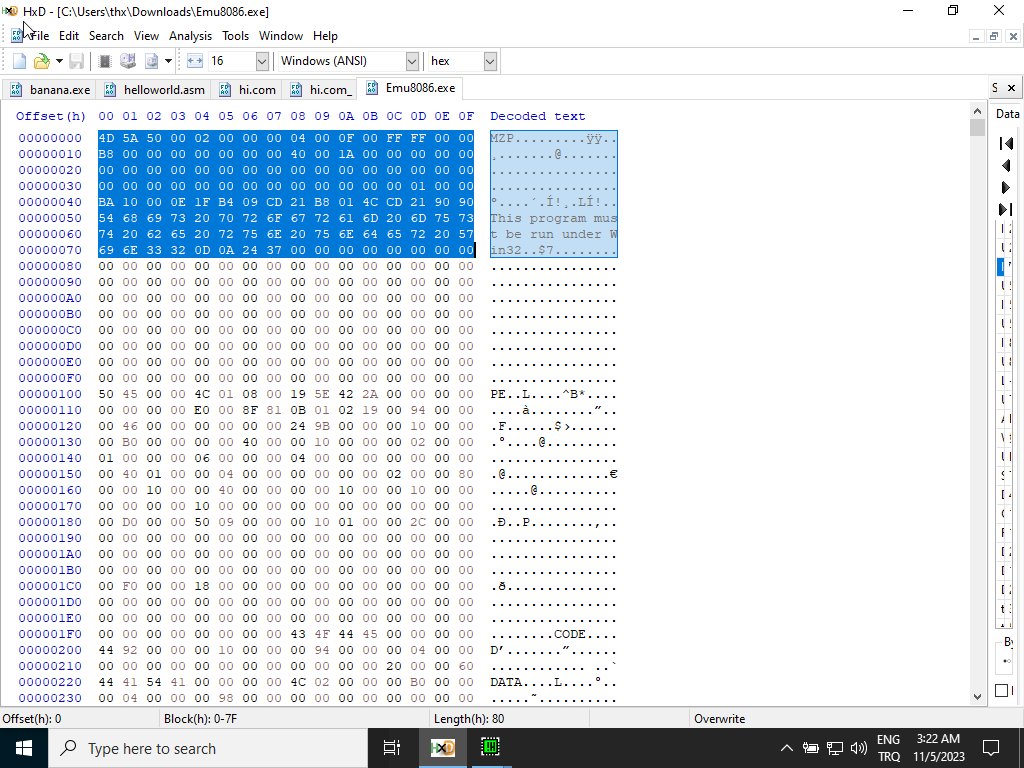
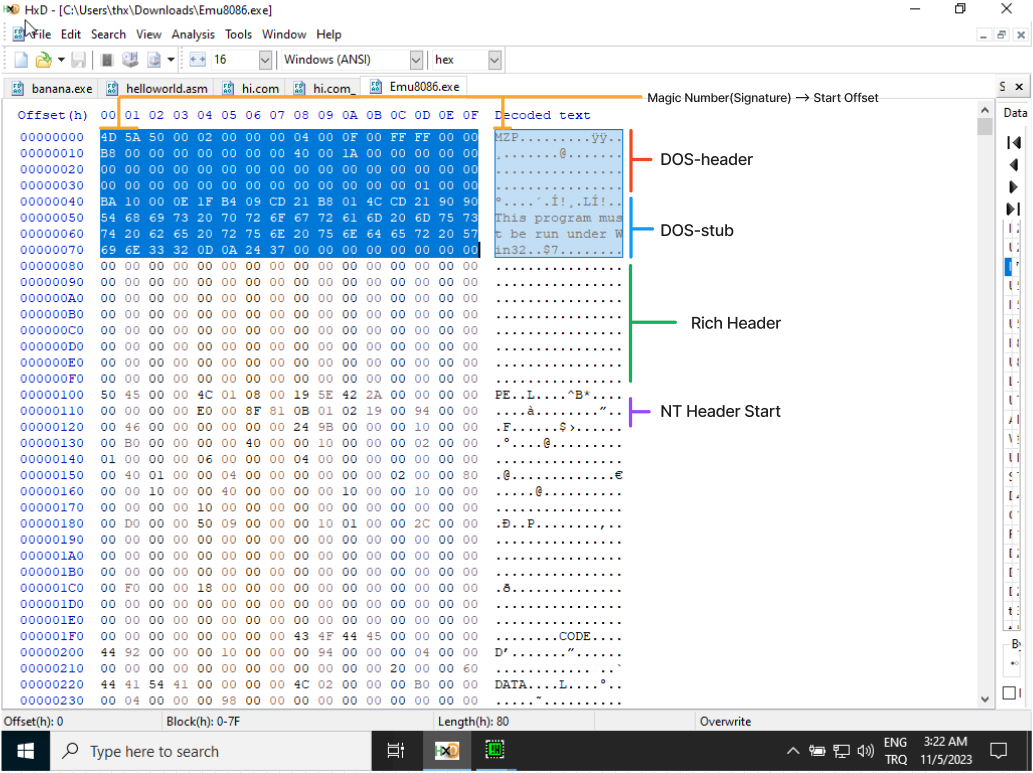
dont lose

Changed region(s): [[0.0, 0.0, 1.0, 1.0], [0.9375, 0.0, 1.0, 0.0625], [0.9062, 0.0, 0.9375, 0.0312]]

diff --git a/pages/.exeHeader/index.html b/pages/.exeHeader/index.html
@@ -77,20 +77,59 @@
 
         <div class="summary"><h3>Summary</h3>
             <p>
-                .exe dosyalarının içerisine gömülü bu kodların aslında ne olduğuna, ne işe yaradıklarına ve neden orada olduklarına bakacağız.
+                .exe dosyalarının içerisindeki yapılara; gömülü kodların aslında ne olduğuna, ne işe yaradıklarına ve neden orada olduklarına bakacağız.
             </p>
             <hr>
         </div>
         <div class="content">
             <h3>.exe Dosyaları</h3>
             <p>
-                .exe uzantılı dosyalar Windows ve DOS sistemlerde 'executable file(çalıştırılabilir dosya)' olarak geçer. İçerisinde dosyanın .exe olmasını sağlayan, dosya ile ilgili özellikleri tutan, dosya verilerini tutan kısımlar bulunur. Windows sistemlerde bu yapıya PE/PE32, DOS sistemlerde MZ(ayrıca dos-header kodlarında imza harfleridir) denir. Bu yapılardaki fark oldukça fazladır. Fakat MZ dosya yapısının PE içerisine gömülü olduğunu söyleyelim.
-
+                <strong>.exe</strong> uzantılı dosyalar Windows ve DOS sistemlerde <strong>'executable file(çalıştırılabilir dosya)'</strong> olarak geçer. İçerisinde dosyanın .exe olmasını sağlayan, dosya ile ilgili özellikleri tutan, dosya verilerini tutan kısımlar bulunur. Windows sistemlerde bu yapıya PE/PE32, DOS sistemlerde MZ(ayrıca dos-header kodlarında imza harfleridir) denir. Bu yapılardaki fark oldukça fazladır. Fakat halihazırda MZ dosya kodlarının PE içerisine gömülü olduğunu söyleyelim.
             </p>
             <p>
                 Şimdi PE yapısını inceleyelim.
                 <br />
                 <img src="/gallery/pe-format.png" alt="form of pe structure"  height="500px">
+            </p>
+            <p>
+                PE başlığı 64-bit uzunluğunda olan DOS-header ve DOS-stub dan oluşuyor. Her PE dosyası DOS-header ile başlar. Bu PE dosyasının kimliğidir. Konumuz DOS-header olduğu için alt kısımlara değinmeyeceğim.
+            </p>
+            <hr>
+            <h3>DOS-header</h3>
+            <p>
+                DOS-header'ın içerisindeki kodlar WORD(2-byte) ve LONG(4-byte) veri tipinden oluşuyor. Bu özelliklerin her birisinin ismine <strong>Field</strong> diyebiliriz. Offset değerleri ise 0x00 ile başlıyor. 0x00 offset değerinin field ismi <i>Signature</i>. '5A' ve '4D' değeri ASCII'de 'M' ve 'Z' değerleridir. MZ, Mark Zbikowski isminden gelir.    
+                <br />
+                <img src="/gallery/dos-header-section.png" alt="dos-header and dos-stub" height="500px">
+            </p>
+
+            <p class="mergeimg">
+                0x00 offset değerinden başlayıp 0x40 offset değerine kadar gider. Arada ise DOS-header değerleri bulunur.
+                <img src="/gallery/details.png" width="350px" height="350px">
+                <img src="/gallery/fields.png" width="350px" height="350px">
+            </p>
+
+            <p>            <!-- Field List -->
+                <ul>
+                    <li>WORD   e_magic    // Magic Number (Signature)</li>
+                    <li>WORD   e_cblp    // Bytes on last page of file</li>
+                    <li>WORD   e_cp    // Pages in file</li>
+                    <li>WORD   e_crlc   // Relocations</li>
+                    <li>WORD   e_cparhdr    // Size of header in paragrahs</li>
+                    <li>WORD   e_minalloc    // Minimum extra paragraphs needed</li>
+                    <li>WORD   e_maxalloc    // Maximum extra paragraphs needed</li>
+                    <li>WORD   e_ss    // Initial CS Value</li>
+                    <li>WORD   e_sp    // Initial SP Value</li>
+                    <li>WORD   e_csum    // Checksum</li>
+                    <li>WORD   e_ip    // Initial IP value</li>
+                    <li>WORD   e_cs    // Initial (relative) CS value</li>
+                    <li>WORD   e_lfarlc    // File address of relocation table</li>
+                    <li>WORD   e_ovno     // Overlay number</li>
+                    <li>WORD   e_res[4]    // Reserved Words </li>
+                    <li>WORD   e_oemid    // OEM Identifier </li>
+                    <li>WORD   e_oeminfo    // OEM information</li>
+                    <li>WORD   e_res2[10]    // Reserved words</li>
+                    <li>LONG   e_lfanew   // File address for new exe header</li>
+                </ul>
             </p>
         </div>
 

diff --git a/pages/style.css b/pages/style.css
@@ -227,19 +227,21 @@ article {
 .content {
     color: azure;
     margin-left: 20px;
+
 }
 
 .content p {
     font-size: 18px;
     text-indent: 35px;
+    line-height: 1.5;
 }
 
 .content img {
-    width: auto;
-    text-align: center;
+    display: block;
+    margin-left: auto;
+    margin-right: auto;
     margin-top: 20px;
 }
-
 
 
 footer {
@@ -251,5 +253,6 @@ footer {
     left: 0;
     background: #4E6E81;
     color: #fff;
-    padding-top: 50px;
+    padding-top: 35px;
+    overflow: visible;
 }
